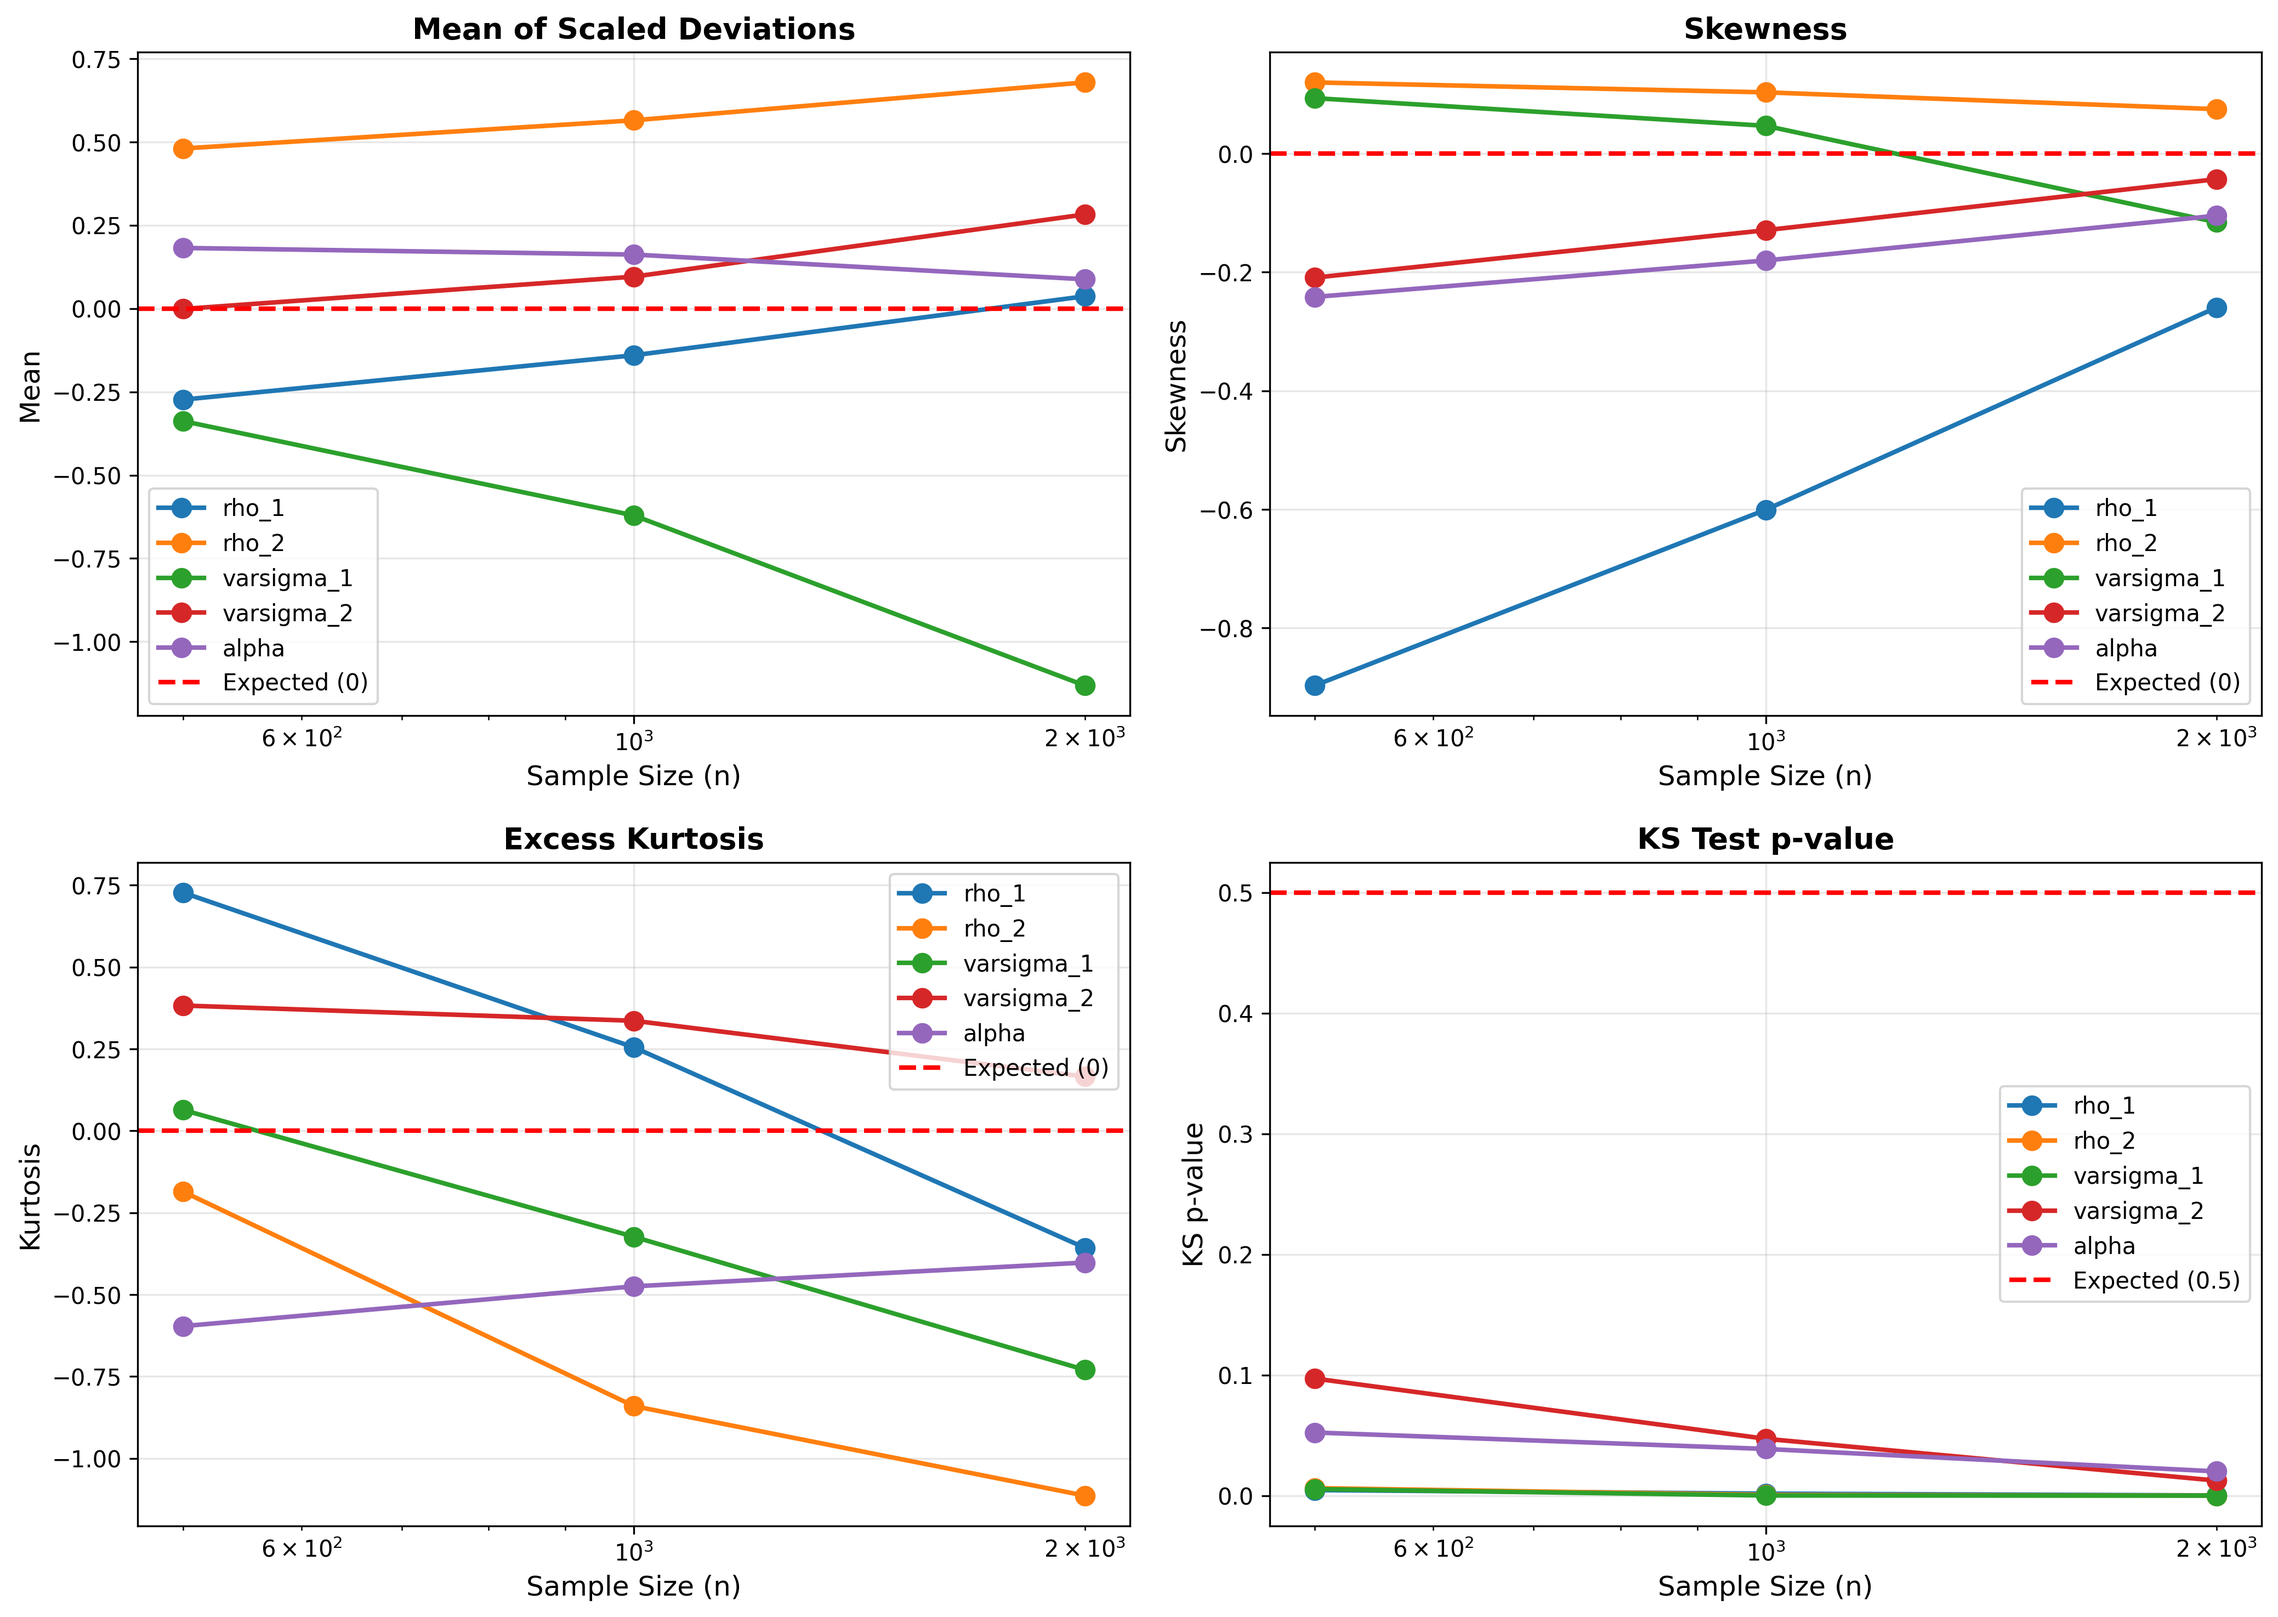
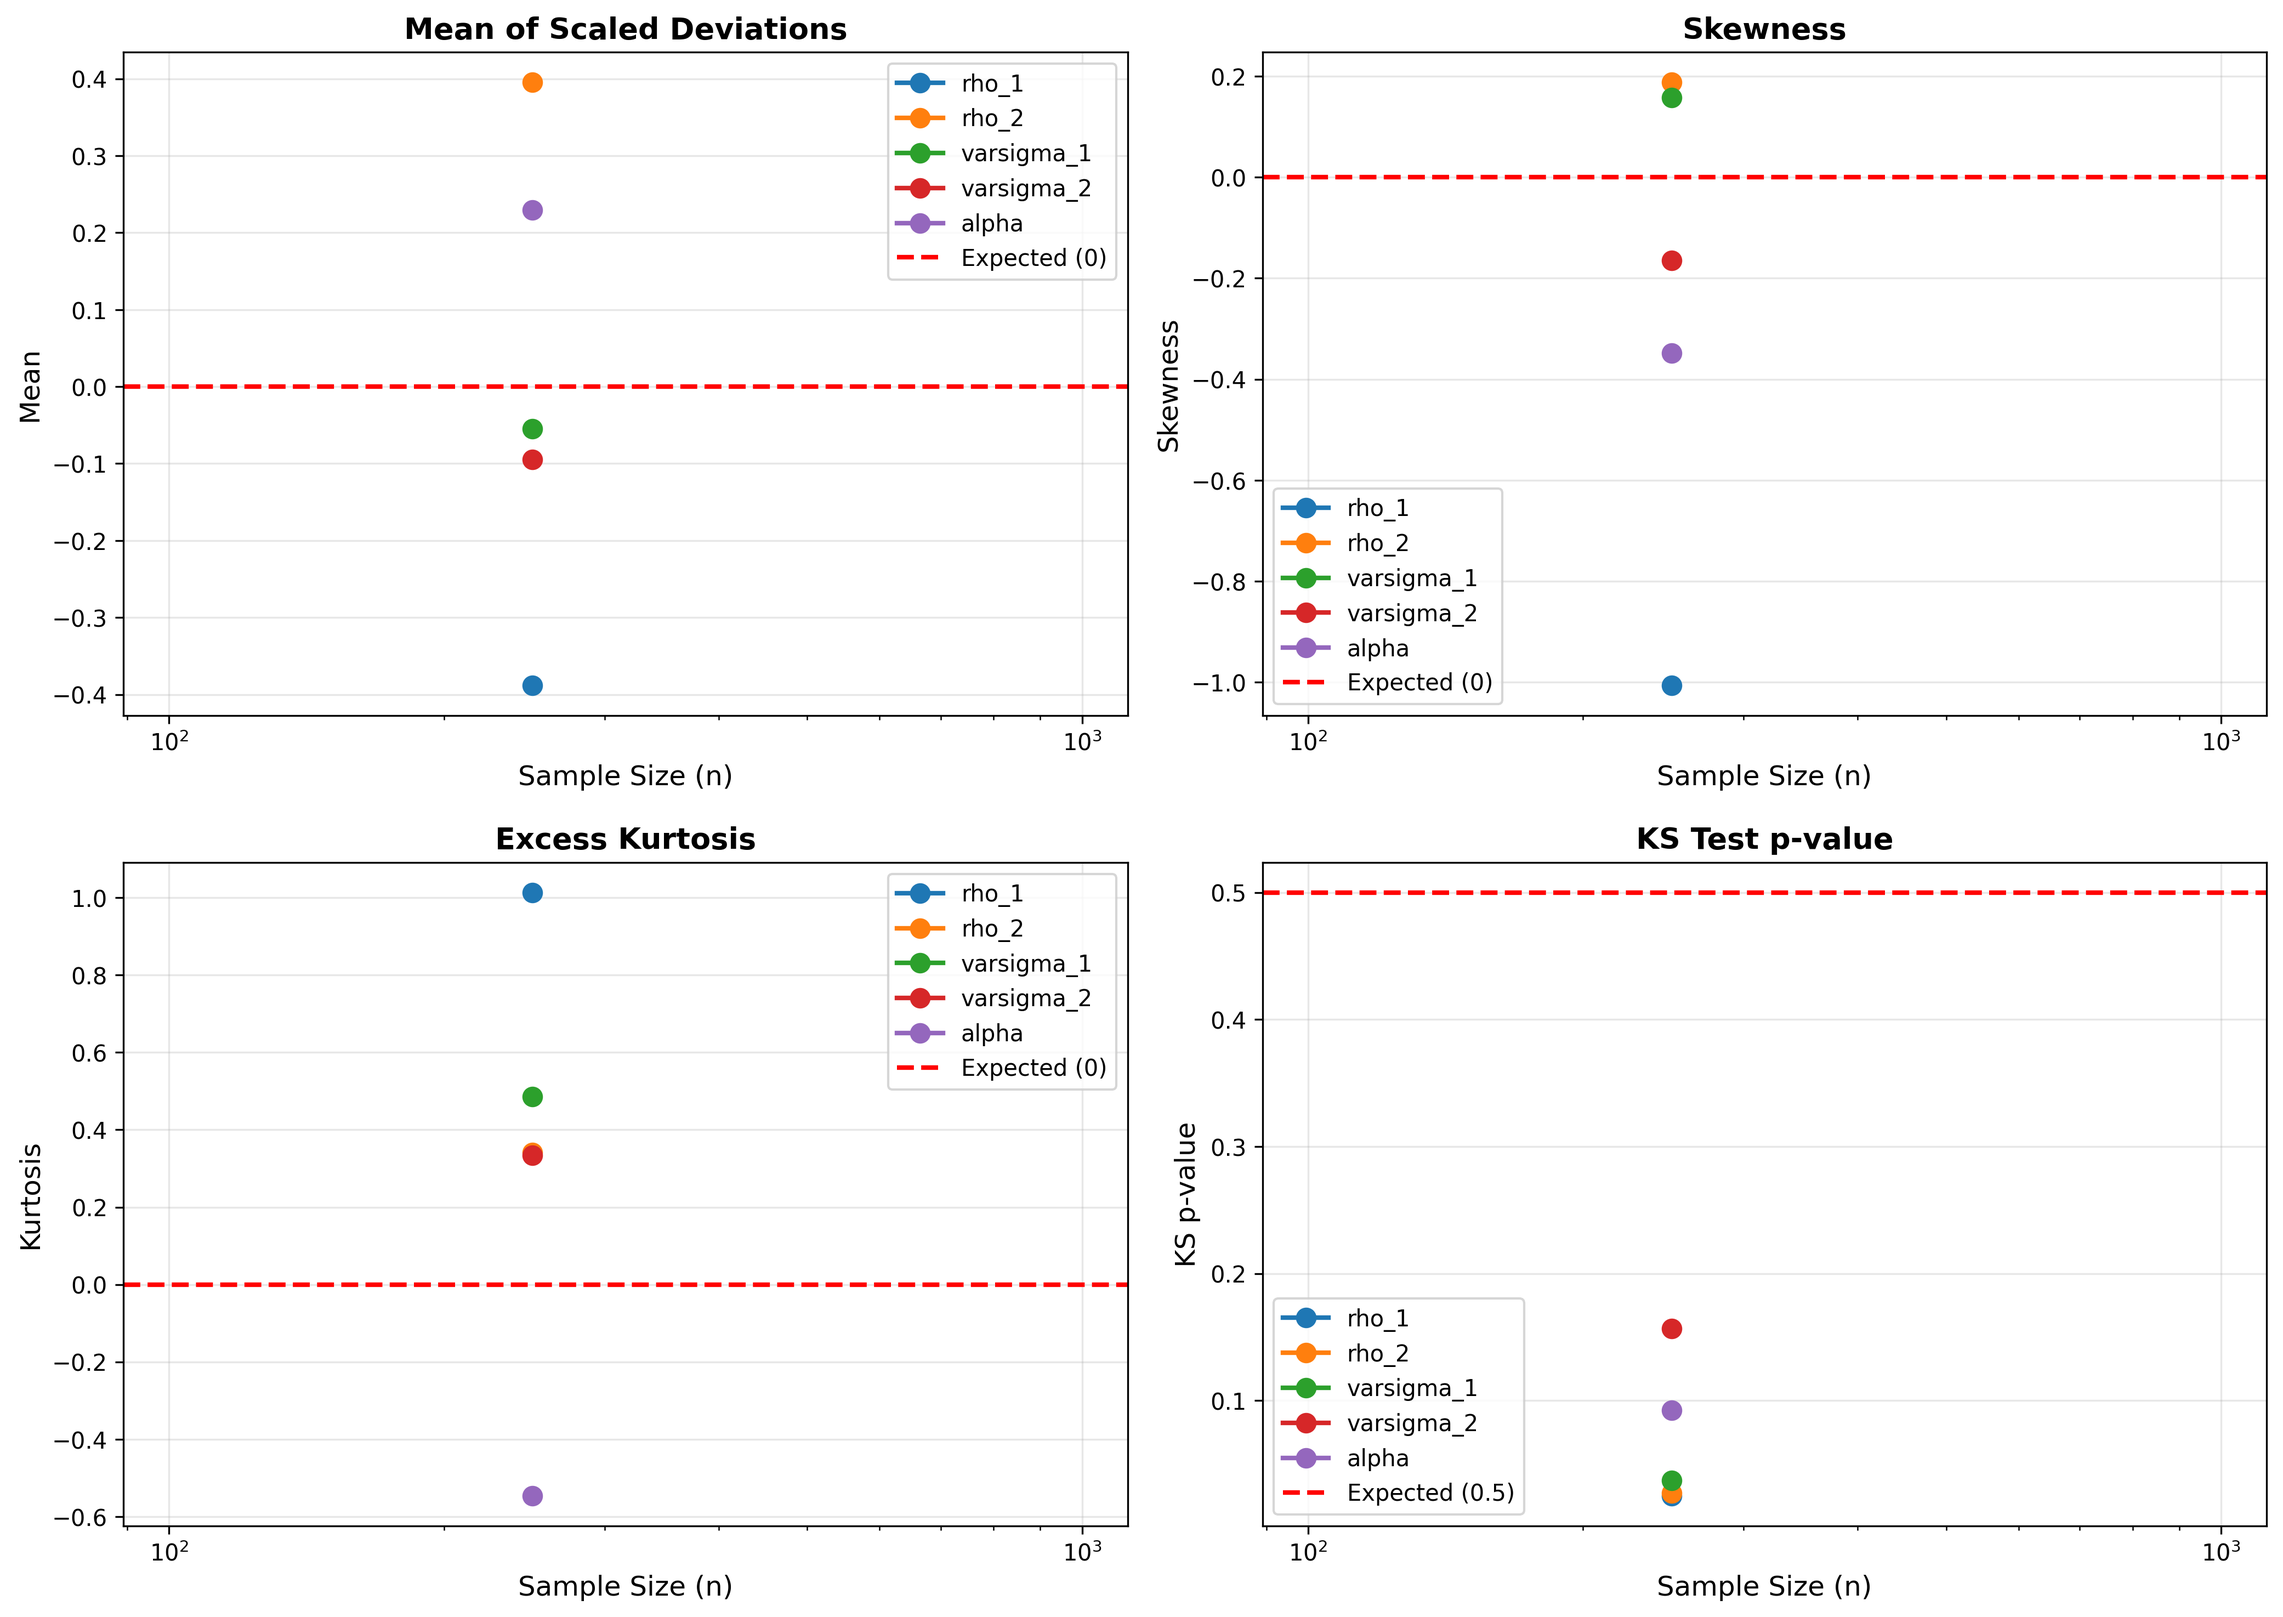
Update

diff --git a/example_execution.py b/example_execution.py
@@ -50,7 +50,7 @@ analyzer = SubsamplingAnalysis(
 )
 
 # Generate time series
-n = 2000
+n = 4000
 print(f"\nSample size: n = {n}")
 Y = analyzer.generate_data(n=n, seed=42)
 print(f"Generated data: mean = {Y.mean():.4f}, std = {Y.std():.4f}")
@@ -153,7 +153,7 @@ if run_convergence == 'y':
         #   sample_sizes=[250, 500, 1000, 2000]
         #   M=500
         results_conv, summaries_conv = convergence_study(
-            sample_sizes=[250],  # Reduced for demo
+            sample_sizes=[250, 500, 1000, 2000, 4000],  # Reduced for demo
             M=500,  # Reduced for demo (use 500 for publication)
             save_dir=output_dir,  # Use output_dir instead of '/outputs'
             n_jobs=-1
